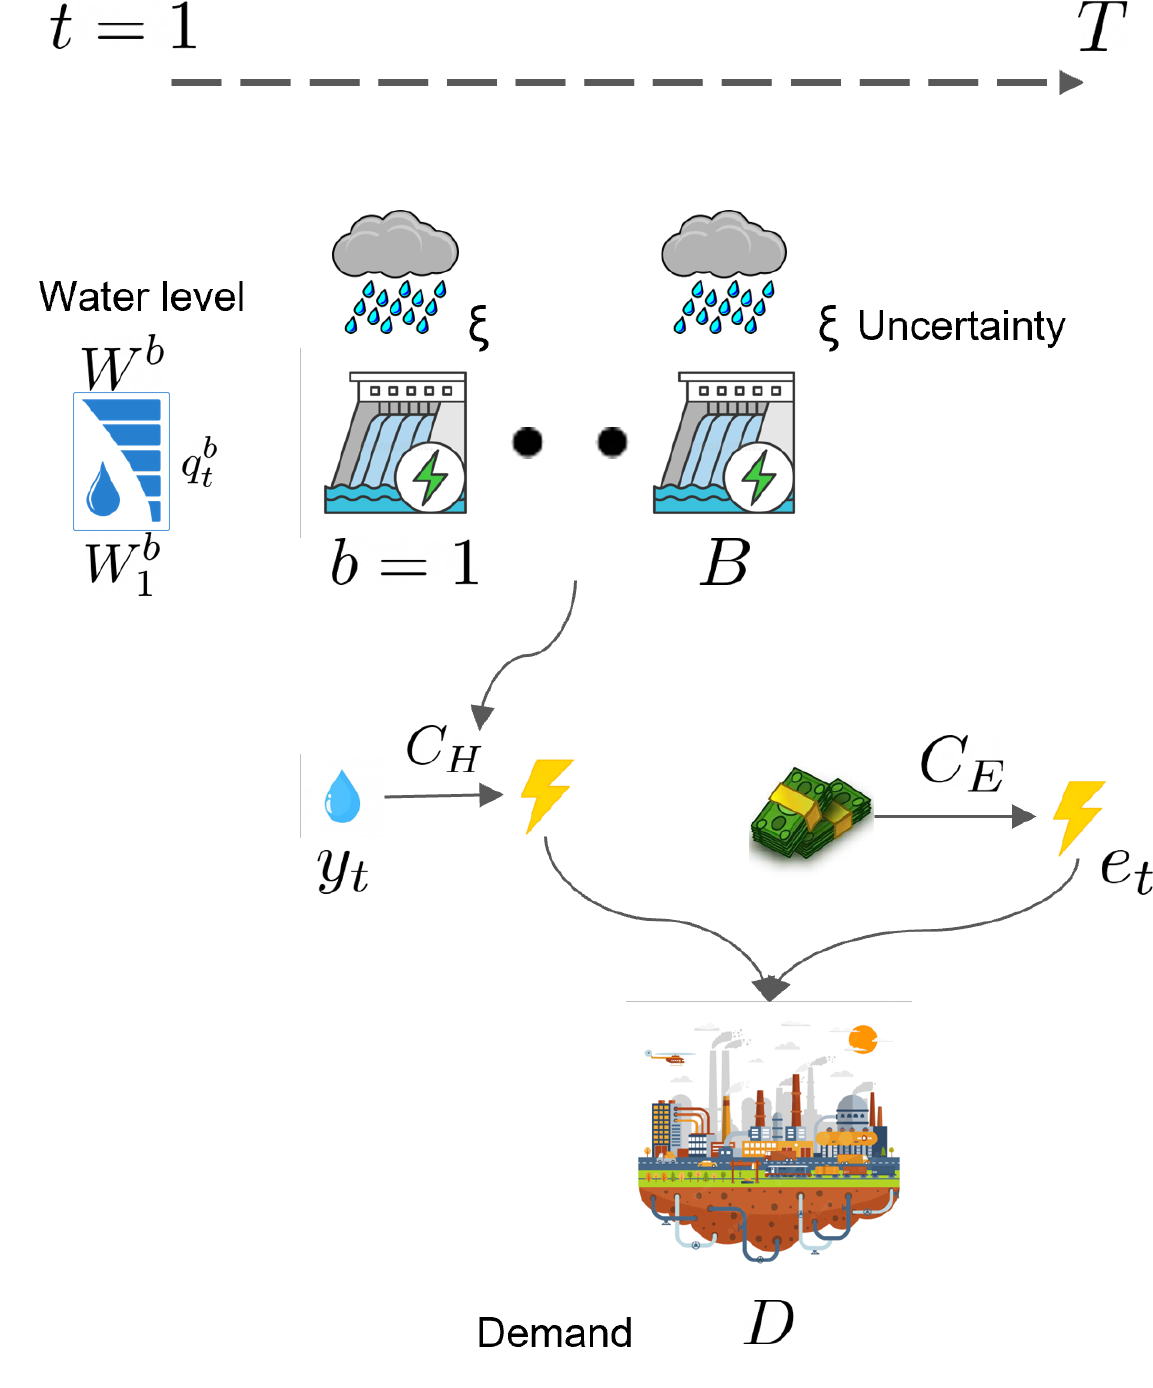
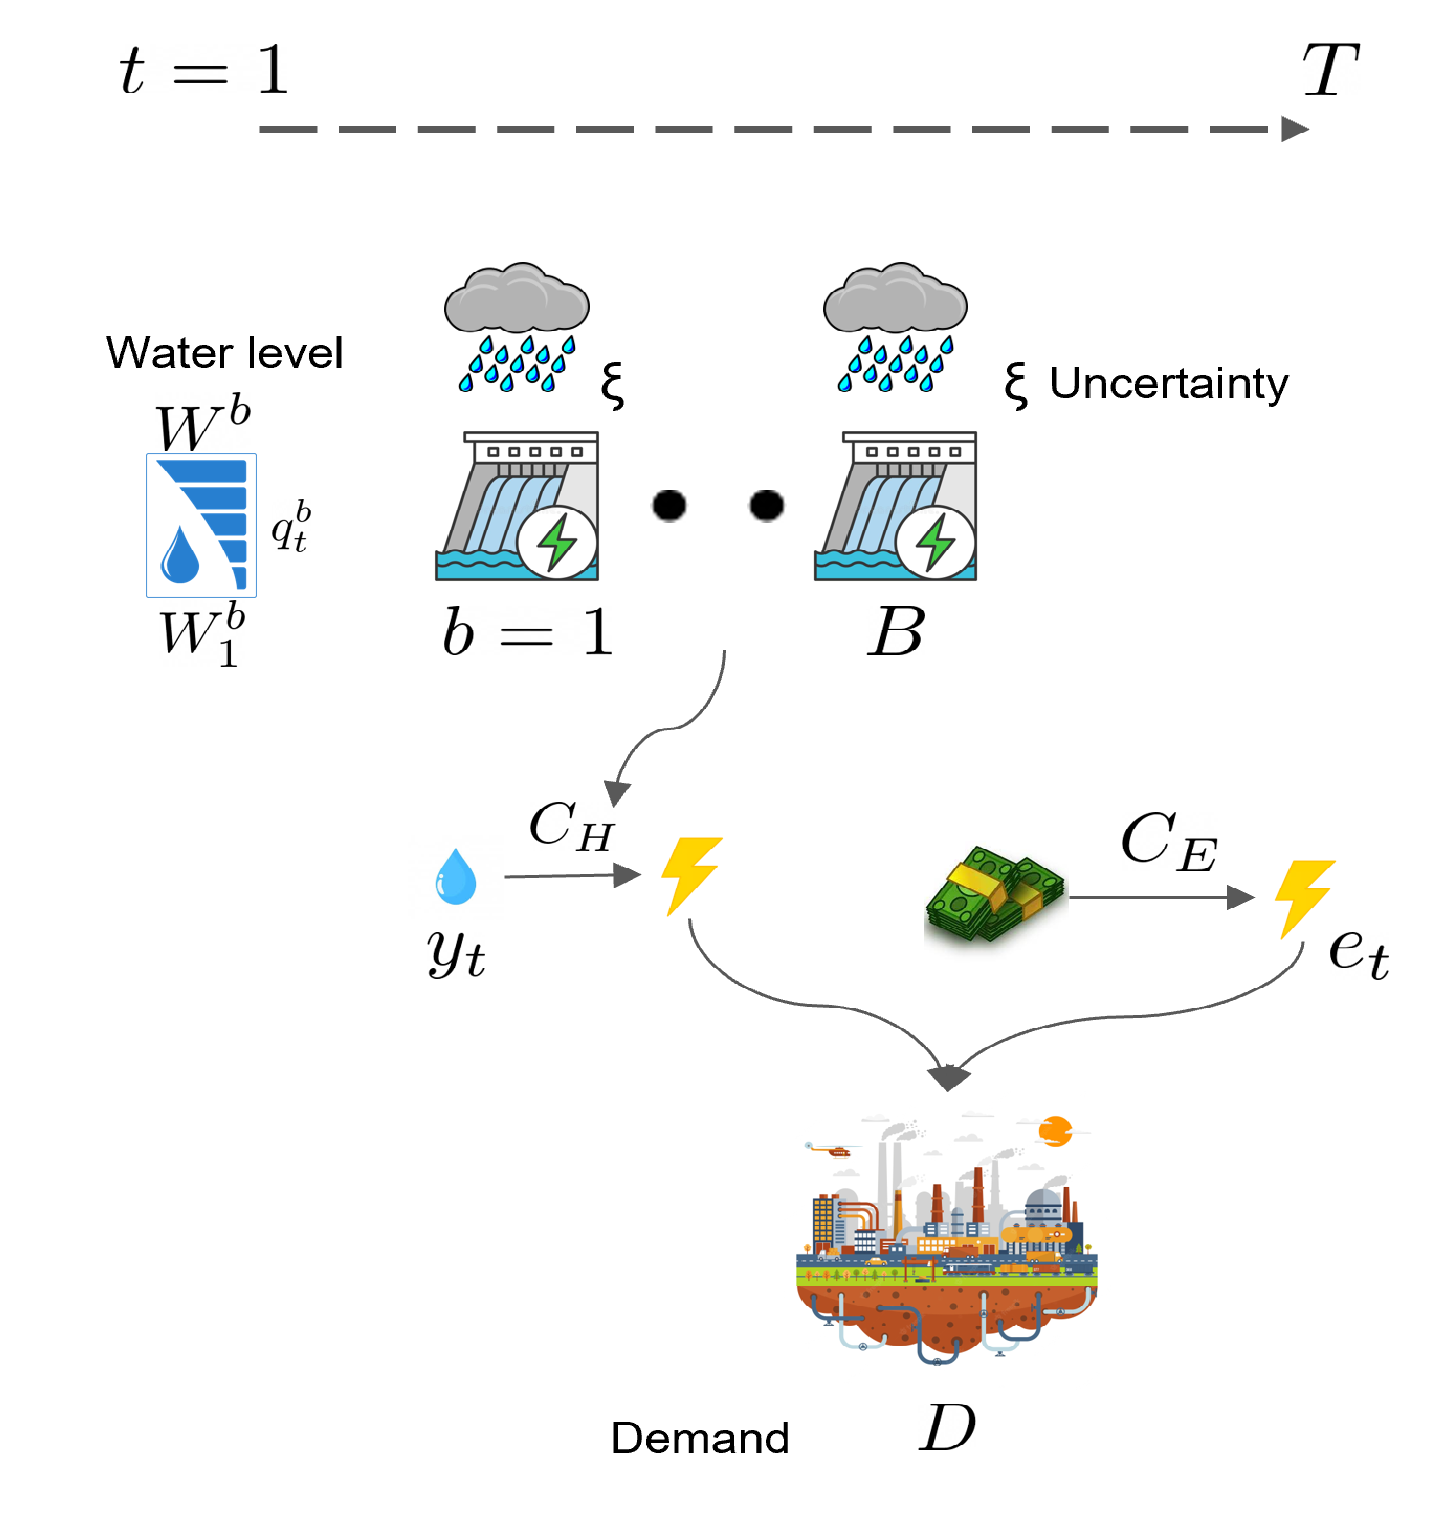
a bunch of changes including adding completed project

diff --git a/_sass/_base.scss b/_sass/_base.scss
@@ -4,6 +4,10 @@
 
 // Typography
 
+h2 {
+  font-weight: 500; // This makes h2 elements bold
+}
+
 p,
 h1,
 h2,
@@ -684,11 +688,20 @@ footer.sticky-bottom {
 
   h2.category {
     color: var(--global-divider-color);
-    border-bottom: 1px solid var(--global-divider-color);
+    border-bottom: none; // Remove the full-width border
     padding-top: 0.5rem;
-    margin-top: 2rem;
-    margin-bottom: 1rem;
     text-align: right;
+    position: relative; // Needed for the pseudo-element positioning
+  }
+
+  // Add a pseudo-element for the half-width border
+  h2.category::after {
+    content: "";
+    position: absolute;
+    bottom: 0;
+    right: 0; // Start from right
+    width: 65%; // Half-width
+    border-bottom: 1px solid var(--global-divider-color);
   }
 }
 

diff --git a/_pages/about.md b/_pages/about.md
@@ -64,26 +64,42 @@ Especially as they apply to **process industries**, **robotics**, **healthcare**
 {% include image-float.liquid 
    image="/assets/img/ASU_Thrive.png" 
    alt="ASU Thrive Article" 
-   width="600px"
+   width="37.5rem"
    content="I am particularly interested in developing models that elucidate complex system behavior and devising control strategies that make machines more **intelligent, safer**, and **adaptive**. My research interests include:
-    "
-%}
-
-  - Control theory  
-  - System identification  
-  - Machine Learning
-  - LLMs
-  - Dynamic modeling  
-  - Optimization
+    
+- Control theory  
+- System identification  
+- Machine Learning
+- LLMs
+- Dynamic modeling  
+- Optimization
   
 Especially as they apply to **process industries**, **robotics**, **healthcare**, and **intelligent systems**.
+"
+%}
+
+  
 
 
 I am currently **open to full-time opportunities** where I can contribute my expertise in control systems engineering, technical implementation, and cross-disciplinary collaboration to address challenging, real-world problems.
 
 **Let’s connect** — whether to explore research ideas, discuss collaboration, or envision ways to develop smarter, more efficient technologies together.
 
+<div style="margin-top: 20px;"></div>
 
-<h2>Featured Videos</h2>
-{% include video.liquid path="https://www.youtube.com/embed/Jbkvr9yBTbY?si=GEyeNQnJn5INO3Ng" width="300px" height="250px" caption="Better Notifications for Better Health" %}
-  
+<h2 style="margin-bottom: 0.2rem;">Featured Videos</h2>
+<hr style="margin-top: 0.2rem;">
+{% include video-float.liquid 
+   path="https://www.youtube.com/embed/Jbkvr9yBTbY?si=GEyeNQnJn5INO3Ng" 
+   width="400px" 
+   height="300px"
+   content="
+
+This video introduces a groundbreaking NIH-funded that reimagines how intelligent systems interact with individuals through the lens of **Just-in-Time (JIT) States**. The research explores **Just-in-Time Adaptive Interventions (JITAIs)** in delivering support (e.g., like walking prompts and adaptive step goals) **precisely when individuals are most likely to benefit**, based on their personal behavior patterns and context.
+
+Over a 270-day period, data from 50 participants was used to model three dynamic behavioral states: **need, opportunity, and receptivity**. By applying advanced data-driven techniques, the team was able to identify at least one reliably predictive 'teachable moment' for **91% of participants**--moments when an intervention would be both welcome and effective. This approach enabled the delivery of personalized support that increased physical activity while minimizing notification fatigue.
+
+This work lays the foundation for intelligent, human-centered health technologies that adapt to the rhythms of everyday life."
+%}
+
+<div style="margin-top: 20px;"></div>

diff --git a/_projects/dual_decomposition.md b/_projects/dual_decomposition.md
@@ -1,0 +1,14 @@
+---
+title: "Decentralized Control: Dual Decomposition for Smart Grid Optimization"
+description:
+  - Designed and implemented a distributed optimization framework to manage energy consumption across a smart grid with multiple subscribers and time slots. Subscriber-side convex optimization was performed using MATLAB and CVX, while grid-level coordination was achieved through dual decomposition and iterative updates of Lagrange multipliers. Parallel computing accelerated convergence, and data analysis confirmed effective load balancing and alignment with generation capacity.
+  - Adapted from  P. Samadi, A.H. Mohsenian-Rad, R. Schober, V. W. S. Wong and J. Jatskevich, Optimal Real-Time Pricing Algorithm Based on Utility Maximization for Smart Grid, 2010 First IEEE International Conference on Smart Grid Communications, 2010, pp. 415-420
+img: assets/img/dual-decomposition-banner.png
+importance: 2
+category: completed
+github:
+  - https://github.com/MohamedElMistiri/Stochastic_Optimization_PRH
+github_tooltip:
+  - Project Repo
+thumbnail: Dual Decomposition Algorithm for Smart Grid Online Optimization
+---

diff --git a/_projects/props.md b/_projects/props.md
@@ -1,6 +1,6 @@
 ---
 layout: page
-title: LLMs for Reinforcement Learning
+title: "LLMs for Reinforcement Learning: Prompted Policy Search (ProPS)"
 description:
   - Developed <tt>ProPS</tt> and <tt>ProPS<sup>+</sup></tt> to prompt LLMs for generating parameterized RL policies after linguistic and numerical reasoning. The iteratively improve through closed loop feedback to the LLM. Relevant contextual and semantic information about the task is also provided through prompting. Explored 15 different tasks and compared the results with state of the art RL methods. Currently working on finetuning to improve RL optimization capabilities of smaller sized LLMs.
 img: assets/img/props_banner_still.png
